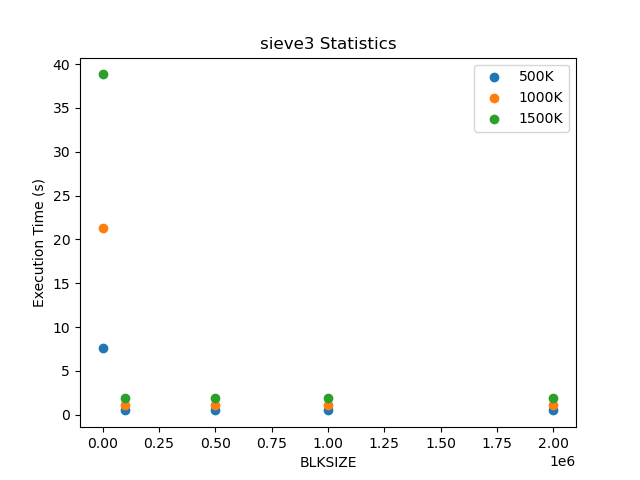
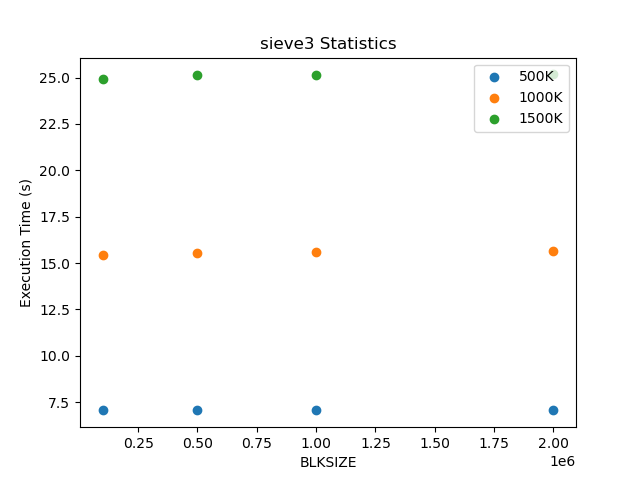
fixed sieve3 and updated collection

diff --git a/assignments/utils/optimize_blksize.py b/assignments/utils/optimize_blksize.py
@@ -114,16 +114,16 @@ sieve3_results = collect_seq_data(sieve3, sizes, BLK)
 print(f"len(BLK) = {len(BLK)}, data: {len([datum[2] for datum in sieve3_results if datum[0] == sizes[0]])}")
 data = pd.DataFrame({
     "BLKSIZE": BLK,
-    "500K": [datum[2] for datum in sieve3_results if datum[0] == sizes[0]], 
+    "500M": [datum[2] for datum in sieve3_results if datum[0] == sizes[0]], 
     #"500K 100K": [datum[2] for datum in sieve3_results if datum[0] == sizes[0]], 
     #"500K 500K": [datum[2] for datum in sieve3_results if datum[0] == sizes[0]],
     #"500K 2000K": [datum[2] for datum in sieve3_results if datum[0] == sizes[0]], 
-    "1000K": [datum[2] for datum in sieve3_results if datum[0] == sizes[1]],
+    "1000M": [datum[2] for datum in sieve3_results if datum[0] == sizes[1]],
     #"1000K 100K": [datum[2] for datum in sieve3_results if datum[0] == sizes[1]],
     #"1000K 500K": [datum[2] for datum in sieve3_results if datum[0] == sizes[1]],
     #"1000K 1000K": [datum[2] for datum in sieve3_results if datum[0] == sizes[1] and datum[1] == BLK[3]],
     #"1000K 2000K": [datum[2] for datum in sieve3_results if datum[0] == sizes[1] and datum[1] == BLK[4]],
-    "1500K": [datum[2] for datum in sieve3_results if datum[0] == sizes[2]]
+    "1500M": [datum[2] for datum in sieve3_results if datum[0] == sizes[2]]
     #"1500K 100K": [datum[2] for datum in sieve3_results if datum[0] == sizes[2]],
     #"1500K 500K": [datum[2] for datum in sieve3_results if datum[0] == sizes[2]]
     #"1500K 1000K": [datum[2] for datum in sieve3_results if datum[0] == sizes[2] and datum[1] == BLK[3]],
@@ -137,14 +137,29 @@ data.to_csv(filename + '.csv', index = False)
 
 fig = plt.figure()
 ax = fig.add_subplot(111)
-plt.title('sieve3 Statistics')
-ax.scatter(data['BLKSIZE'], data['500K'], label = '500K')
-ax.scatter(data['BLKSIZE'], data['1000K'], label = '1000K')
-ax.scatter(data['BLKSIZE'], data['1500K'], label = '1500K')
+plt.title('sieve3 500M Statistics')
+ax.scatter(data['BLKSIZE'], data['500M'], label = '500M')
 plt.xlabel('BLKSIZE')
 plt.ylabel('Execution Time (s)')
-plt.legend()
-plt.savefig('sieve3.png')
+#plt.legend()
+plt.savefig('sieve3-500M.png')
 
+fig = plt.figure()
+ax = fig.add_subplot(111)
+plt.title('sieve3i 1000M Statistics')
+ax.scatter(data['BLKSIZE'], data['1000M'], label = '1000M')
+plt.xlabel('BLKSIZE')
+plt.ylabel('Execution Time (s)')
+#plt.legend()
+plt.savefig('sieve3-1000M.png')
+
+fig = plt.figure()
+ax = fig.add_subplot(111)
+plt.title('sieve3 1500M Statistics')
+ax.scatter(data['BLKSIZE'], data['1500M'], label = '1500M')
+plt.xlabel('BLKSIZE')
+plt.ylabel('Execution Time (s)')
+#plt.legend()
+plt.savefig('sieve3-1500M.png')
 #plt.show()    
 

diff --git a/assignments/3/sieve3.c b/assignments/3/sieve3.c
@@ -61,7 +61,7 @@ int main(int argc, char **argv) {
    mark[0] = 1;
 
    long sqrt_N = sqrt(N);
-   for (long k = 3; k <= sqrt_N; k += 2) { // Iterate to sqrt(n)
+   for (long k = 3; k <= sqrt_N;) { // Iterate to sqrt(n)
         // We only want to find primes less than sqrt(N)
         // We stride by 2*k because odd + odd = even
         // And odd + even = odd, thereby skipping all even multiples
@@ -70,6 +70,7 @@ int main(int argc, char **argv) {
         for (long prime = k*k; prime <= sqrt_N; prime += 2*k) mark[prime] = 1;
         
         // Get next odd prime (unmarked value)
+        k += 2;
         while (mark[k]) k += 2;
    }
 
@@ -89,6 +90,7 @@ int main(int argc, char **argv) {
 
 
    /* end of preamble */
+   printf("BLKSIZE: %ld\n", BLKSIZE);
 
    int prime;
    for (int j = 0; j < count; j++) {
@@ -115,10 +117,10 @@ int main(int argc, char **argv) {
    /* print results */
    printf("First three primes:");
    j = 1;
-   printf("%d ", 2);
+   printf("%d, ", 2);
    for ( i=3 ; i <= N && j < 3; i+=2 ) {
       if (mark[i]==0){
-            printf("%ld ", i);
+            printf("%ld, ", i);
             ++j;
       }
    }
